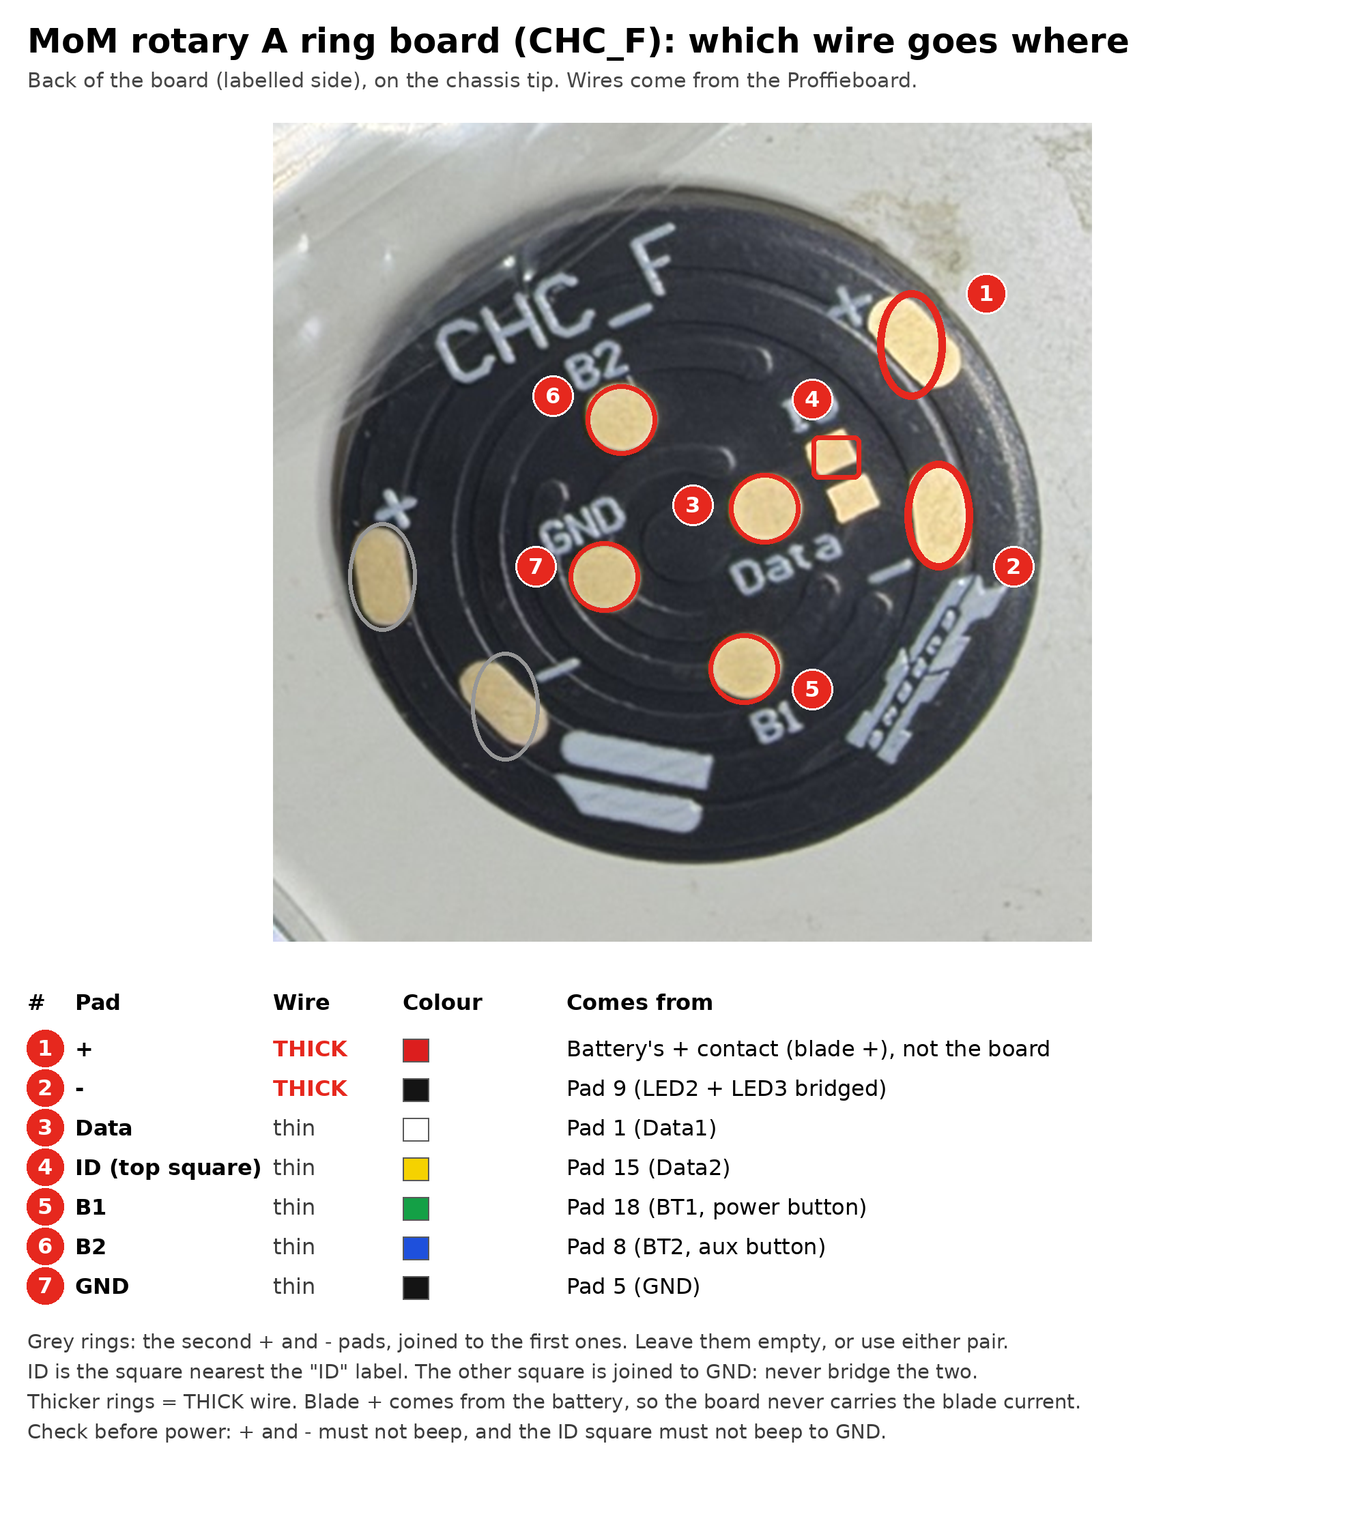
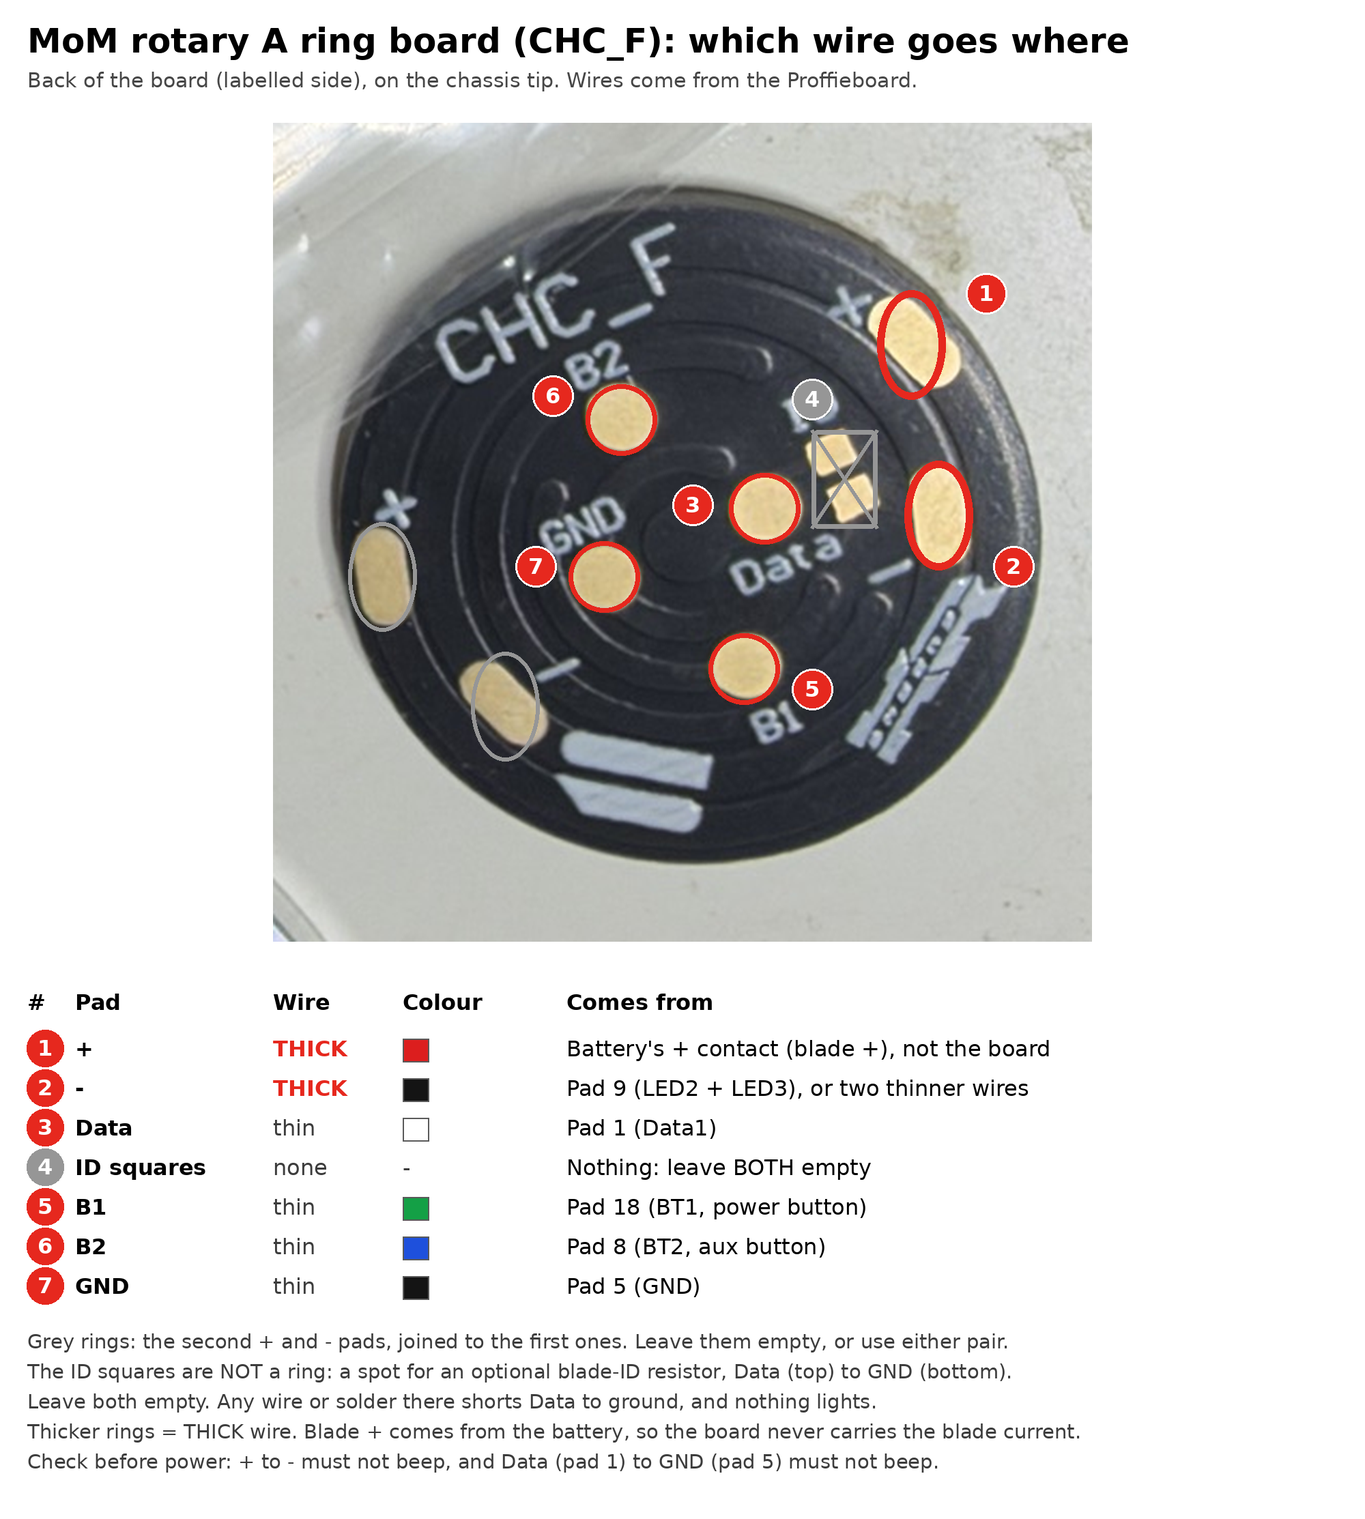
MoM: route all lights on Data1, leave the rotary's ID squares empty
Shtok's rotary set has six rings (+, -, Data, GND, B1, B2). The ID
squares are a spot for a blade-ID resistor between Data and GND, not a
seventh contact, so routing Data2 through ID joined Data1 and Data2.
Charts, hilt diagram and README now join NPXL #2's D1/D2 and the crystal
strip's DIN onto the one Data wire and mark Data2 (pad 15) unused.

Claude-Session: https://claude.ai/code/session_01265pwD5zDbVVSh7CxSi4nL

diff --git a/saber-wiring/README.md b/saber-wiring/README.md
@@ -17,10 +17,10 @@ The configurator doesn't know about the Shtok rotary connector or the MoM helper
 | 18650 3120 mAh protected cell (1 of the 2) | Battery. Protected cells are a few mm longer than unprotected ones, so check it fits between the spring contacts |
 | Spring battery contacts | Hold the battery; it comes out to charge |
 | 2 A charger | External, shared with the Obi-Wan. There's no charge port in this build |
-| Shtok Rotary NeoPixel & 2 Button PCB connector set (1 set) | Joins the removable chassis to the bottom of the crystal chamber. Carries power, blade data, connector-LED data and both buttons |
+| Shtok Rotary NeoPixel & 2 Button PCB connector set (1 set) | Joins the removable chassis to the bottom of the crystal chamber. Six rings: +, −, Data, GND, B1 and B2 |
 | Shtok NPXL V4 hilt-side connectors (2) + 1" holder | **#1**, in the 1" holder at the blade end, is where the blade plugs in. **#2** sits at the top of the crystal chamber, pins up. Each has 16 LEDs of its own |
 | Round **BLADE** board (Shtok blade-side NPXL board, 5 LEDs) + the designer's copper and black pixel holder | Sits at the bottom of the tip section, flat contacts down onto NPXL #2's pins. Joins the crystal chamber to the tip: +, − and one data line |
-| 330 Ω 0603 resistor (surface-mount chip marked "331", on a paper strip; 0603 is 1.6 × 0.8 mm) | In series on the **crystal strip's** data wire, close to its DIN. Tin both ends, solder the tap from the yellow Data2 wire to one end and the strip's DIN to the other, then cover it with heat shrink |
+| 330 Ω 0603 resistor (surface-mount chip marked "331", on a paper strip; 0603 is 1.6 × 0.8 mm) | In series on the **crystal strip's** data wire, close to its DIN. Tin both ends, solder the tap from the white Data wire to one end and the strip's DIN to the other, then cover it with heat shrink |
 | WS2812 mini strip, 10 LEDs | Crystal chamber light. Use all 10, or cut it to fit and set the count in the config |
 | 4-pin SMT spring-loaded connector | In the chassis end, beside the rotary ring board. The designer's spec: SMT, 2.5 × 10–11 mm, uncompressed pins no taller than 4 mm. Carries the kill-switch return and the two control-box lights (see "MoM FX helper board") |
 | Saberbay 1" thin-walled 36" neopixel blade | Main blade, 130 LEDs (Saberbay's formula: 36 ÷ 40 × 144 ≈ 130) |
@@ -67,7 +67,7 @@ Not from this order:
 - [Ronin Sabers: 7even Chambers MoM Gen 2 Neopixel Install](https://www.youtube.com/watch?v=9AR8ZAMefGs)
 - [BRrogers: FX reveal board assembly](https://www.therpf.com/forums/threads/fx-reveal-board-assembly-for-fx-mom-cave-hero.339167) (helper board and reveal board, RPF)
 
-Layout, from the designer's photos, starting at the pommel: pommel → body with the control box (the removable core with board, battery and speaker goes in here) → crystal chamber → black grip → copper section → emitter with the NPXL connector. The crystal chamber is in the grenade section. The blade goes in past the thin neck to a brass cup about 1" across. The Shtok 1" holder is the same size and replaces that cup; it holds the NPXL, pins up, where the blade's end lands. (On its own, the 17.5 mm NPXL rattles around in the brass cup.) The blade wires (+, −, Data1, Data2) run up from the rotary connector past the crystal chamber to the NPXL. The NPXL's 16 LEDs light the blade plug at that end. The crystal is lit by the mini strip.
+Layout, from the designer's photos, starting at the pommel: pommel → body with the control box (the removable core with board, battery and speaker goes in here) → crystal chamber → black grip → copper section → emitter with the NPXL connector. The crystal chamber is in the grenade section. The blade goes in past the thin neck to a brass cup about 1" across. The Shtok 1" holder is the same size and replaces that cup; it holds the NPXL, pins up, where the blade's end lands. (On its own, the 17.5 mm NPXL rattles around in the brass cup.) The blade wires (+, −, Data1) run up from the rotary connector past the crystal chamber to the NPXL. The NPXL's 16 LEDs light the blade plug at that end. The crystal is lit by the mini strip.
 
 The chassis comes all the way out, so every wire from the Proffieboard ends at the chassis end: on the rotary ring board, the 4-pin connector, the battery contacts or the speaker. The rotary connector is the pass-through that carries the blade's wires on into the hilt.
 
@@ -103,9 +103,9 @@ Use **thick** wire only where the blade's current flows: the battery in and out,
 | **BATT−** | **Thick** | Battery − | Every LED's current comes back through here |
 | **LED2 + LED3** | **Thick** | Blade −: rotary **−** → NPXL **−** | The two pads are next to each other. Strip enough wire to lay across both and solder them together |
 | **GND** | Thin | Shared leg of both buttons: rotary **GND** → helper **GND** | GND and BATT− are joined on the board, so any GND or BATT− pad works |
-| **Data1** | Thin | Rotary **Data** → NPXL **D1** (blade) | Data1 has a 470 Ω resistor built in, so no extra resistor |
-| **Data2** | Thin | Rotary **ID** → NPXL **D2** (connector's 16 LEDs) | The NPXL has its own 330 Ω (R2) on D2 |
-| **Data3** | None | Spare, not used | If you already soldered a wire here, tape its end. The crystal strip takes its data from Data2 in the crystal chamber |
+| **Data1** | Thin | Rotary **Data** → every light: NPXL #2 **D1** and **D2**, the crystal strip, and on up to NPXL #1 and the blade | Data1 has a 470 Ω resistor built in, so no extra resistor |
+| **Data2** | None | Not used: the rotary has no ring for it | If you already soldered a wire here, tape its end |
+| **Data3** | None | Spare, not used | If you already soldered a wire here, tape its end. The crystal strip takes its data from the Data wire in the crystal chamber |
 | **LED1** | None | Spare, not used | If you already soldered a wire here, tape its end and tuck it away. The crystal's − now comes from the blade − line in the hilt |
 | **BT1** | Thin | Rotary **B1** → helper **SW1+** (power) | |
 | **BT2** | Thin | Rotary **B2** → helper **SW2+** (aux) | |
@@ -125,7 +125,7 @@ Colour plan for black, red, white, green, yellow and blue. Each group of wires t
 
 | Ends at | Wires (Proffieboard pad → colour) |
 | --- | --- |
-| Rotary connector (chassis side) | blade + **red thick** (from the battery + contact), LED2+LED3 **black thick**, GND (pad 5) black thin, Data1 white, Data2 yellow, BT1 green, BT2 blue |
+| Rotary connector (chassis side) | blade + **red thick** (from the battery + contact), LED2+LED3 **black thick**, GND (pad 5) black thin, Data1 white, BT1 green, BT2 blue |
 | 4-pin connector (chassis end) | BATT+ red thick (pins 1 and 2), LED5 green (pin 3), LED6 yellow (pin 4) |
 | Battery contacts | + : blade + **red thick**. − : BATT− **black thick** |
 | Speaker | SPKR+ and SPKR− both green. Polarity doesn't matter with one speaker |
@@ -165,7 +165,7 @@ Where each pad is on the back (the side printed **HILT**), from the manual's pag
 | NPXL pad | Where it is | Wire to |
 | --- | --- | --- |
 | **D1** | The big round pad dead centre, with "D1" printed below it | Data1 (blade): white |
-| **D2** | The small round pad on the left edge, printed "D2", between R2 above and R1 below | Data2 (the 16 on-board LEDs): yellow |
+| **D2** | The small round pad on the left edge, printed "D2", between R2 above and R1 below | The 16 on-board LEDs: yellow, joined to the Data wire (the rotary has only one data ring) |
 | **−** | The gold pads around the centre, with "−" printed either side of "HILT" | LED2 + LED3: thick black |
 | **+** | The outer pads: the big square ones at top and bottom and the round outer ones printed "+" | Battery +: thick red |
 | **BD** | The inner pad at lower right, printed "BD" | Not used. Blade detect is off (see below). Keep solder from bridging it to the − pads |
@@ -178,6 +178,8 @@ The MoM has two of these. **NPXL #2**, at the top of the crystal chamber, is wir
 This is the manual's **Option 4**: blade and connector LEDs on separate data wires, which is also what the configurator draws. **Option 4 needs resistor R1 removed.** R1 is the tiny resistor next to D2, labeled R1 in the diagram. If R1 is still fitted, D1 and D2 are tied together through it, and two data outputs end up fighting each other. Leave R2 in place.
 
 The manual's own Proffieboard example for Option 4 matches this config: blade on Data1 and the connector's 16 LEDs on Data2, both on `PowerPINS<bladePowerPin2, bladePowerPin3>`, with `SHARED_POWER_PINS`. The only difference is that this config splits the 16 LEDs into two interleaved halves, as the configurator does. Both work.
+
+In the MoM, NPXL #2's D1 and D2 now both join the rotary's single Data wire (see the rotary section below), so its ring copies NPXL #1's ring. With both on one wire, having R1 off does no harm.
 
 ## Shtok rotary connector (Rotary NeoPixel & 2 Button set)
 
@@ -192,14 +194,14 @@ Ring board A (CHC_F), pad by pad, on a photo of the real board:
 | **+** | Battery + contact (thick) | NPXL + |
 | **−** | LED2 + LED3 | NPXL − |
 | **Data** | Data1 | NPXL D1 |
-| **ID** | Data2 | NPXL D2 (repurposed; see below) |
+| **ID squares** | Nothing | Nothing (see below) |
 | **B1** | BT1 | Helper **SW1+** (power button) |
 | **B2** | BT2 | Helper **SW2+** (aux button) |
 | **GND** | GND (pad 5) | Helper **GND** (shared leg of both buttons) |
 
-On both boards, **ID** is the upper of the two small square pads next to the "ID" label. The lower square is joined to GND (it's for an optional ID resistor), so never let solder bridge the two: that would short Data2 to ground.
+The set has **six rings**: +, −, Data, GND, B1 and B2. Shtok's diagram wires exactly those six. The two small squares by the "ID" label are **not** a seventh contact: they're a spot for an optional blade-ID resistor, with the top square on Data and the bottom one on GND. Leave both empty on both boards. A wire on the top square lands on Data, and solder bridging the two shorts Data to ground, so nothing lights. (An earlier version of this guide routed Data2 through ID, which joined Data1 and Data2. That's corrected here.)
 
-This set has one data contact plus an **ID** contact. The blade and the connector LEDs need two data wires, so this wiring carries the connector-LED data (D2) on ID. That leaves no contact for the NPXL's blade-detect (BD) pin, which is why Blade Detect is off.
+With one data ring, all the lights run on Data1. In the chamber, NPXL #2's D1 and D2 and the crystal strip's DIN all join the same wire, so the chamber lights copy NPXL #1's ring (the first 16 pixels). There's no contact for the NPXL's blade-detect (BD) pin, which is why Blade Detect is off. To give the chamber its own pattern later, the 4-pin's pin 2 could carry Data2 instead of doubling board power; the designer lists pin 2 as a second BATT+ or a data line.
 
 In the MoM the buttons do use B1, B2 and GND, because the 4-pin pogo is taken up by the kill switch and the control-box lights. On the hilt side, three short wires run from the pin board (CHC_M) to the helper board.
 
@@ -232,7 +234,7 @@ For the MoM, the chassis designer's notes give the 4-pin connector's pinout (for
 | 4 | LEDy arrow neg- | LED6 (pad 11), yellow |
 
 - **4-pin connector:** a single spring-loaded SMT strip in the chassis end. Its pins press on contacts in the hilt, so there's no second half to make. The designer says that if your pins are shorter than the chassis expects, a dab of hot glue or tape inside the pommel cap corner keeps them in contact. Check in the designer's video or photos which end is pin 1 before soldering.
-- **Rotary connector:** blade +, blade −, Data1, Data2 (on ID), and the buttons on B1, B2 and GND.
+- **Rotary connector:** blade +, blade −, Data1, and the buttons on B1, B2 and GND. Nothing on the ID squares.
 
 If the green and red arrow lights come out swapped, swap `bladePowerPin5` and `bladePowerPin6` in the config.
 
@@ -251,10 +253,10 @@ The config already drives LED1 and LED2 as two plain LEDs on LED5 and LED6 (blad
 
 None of the install videos show this wiring, so it's worked out from the parts' pinouts and the chassis designer's notes. The hilt side has three groups of wires:
 
-- **Up through the crystal chamber: 4 wires.** Blade + and − (thick), Data and ID (thin), from rotary **A**'s pin board at the bottom of the chamber to **NPXL #2** at its top, pins up. Its own 16 LEDs take ID (Data2).
+- **Up through the crystal chamber: 3 runs.** Blade + and − (thick) and Data (thin), from rotary **A**'s pin board at the bottom of the chamber to **NPXL #2** at its top, pins up. NPXL #2's D1 and D2 both join the Data wire, so its own 16 LEDs copy NPXL #1's ring.
 - **The chamber-to-tip joint:** NPXL #2's pins press on the **BLADE** board, held in the designer's copper and black pixel holder at the bottom of the tip section. Only +, − and one data line (the centre pin) cross it.
 - **Tip section: 3 wires.** From the BLADE board up to **NPXL #1** at the blade end. NPXL #1 is chained (Option 3): data into D2, J bridged, so its 16 LEDs come first and the blade follows.
-- **At the crystal chamber: 3 wires to the strip.** + and − tapped off the blade + and − wires as they pass, and data tapped off the yellow Data2 wire through the 330 Ω. The strip shows the same pattern as NPXL #2's ring. No wire crosses from the chassis.
+- **At the crystal chamber: 3 wires to the strip.** + and − tapped off the blade + and − wires as they pass, and data tapped off the white Data wire through the 330 Ω. The strip shows the same pattern as NPXL #2's ring. No wire crosses from the chassis.
 - **At the helper board in the control box:** the buttons (B1, B2 and GND from the rotary pin board), battery + for the kill switch (a tap off blade +) and the 4-pin contacts.
 
 ![Hilt-side wiring](out/mom/hilt-wiring.png)
@@ -267,8 +269,8 @@ Rotary A's pin board (CHC_M), pad by pad, on the photo of the real board:
 | --- | --- | --- | --- |
 | Rotary A pin board **+** | NPXL #2 **+** | Thick | Red |
 | Rotary A pin board **−** | NPXL #2 **−** | Thick | Black |
-| Rotary A pin board **Data** | NPXL #2 **D1** | Thin | White |
-| Rotary A pin board **ID** | NPXL #2 **D2** | Thin | Yellow |
+| Rotary A pin board **Data** | NPXL #2 **D1** and **D2** (join them) | Thin | White, and yellow for D2 |
+| Rotary A pin board **ID squares** | Nothing | | |
 | BLADE board **+** (the four outer pads marked +) | NPXL #1 **+** | Thick | Red |
 | BLADE board **−** (the pads marked −) | NPXL #1 **−** | Thick | Black |
 | BLADE board **D** (top centre, above its resistor) | NPXL #1 **D2** | Thin | White (it carries Data1, the blade's data) |
@@ -278,7 +280,7 @@ Rotary A's pin board (CHC_M), pad by pad, on the photo of the real board:
 | Tap on blade + | Helper **BATT+** (kill switch in) | Thin will do; thick if it fits | Red |
 | Tap on blade + | Crystal **+ / 5V** | Thin | Red |
 | Tap on blade − | Crystal **− / GND** | Thin | Black |
-| Tap on the yellow Data2 wire | **330 Ω** → crystal **DIN** | Thin | Yellow |
+| Tap on the white Data wire | **330 Ω** → crystal **DIN** | Thin | White |
 | 4-pin **pin 1** and **pin 2** contacts | Helper **BRD+** (kill switch out) | Thin will do; thick if it fits | Red |
 | 4-pin **pin 3** contact | Helper **LED1−** | Thin | Green |
 | 4-pin **pin 4** contact | Helper **LED2−** | Thin | Yellow |
@@ -290,17 +292,17 @@ Each wire has the same colour as the chassis-side wire behind its contact, so a 
 3. **Blade wires, in two runs.**
    - **Chamber-to-tip joint:** press the BLADE board into the pixel holder, flat contact face down (toward the chamber), the side printed "BLADE" up. Fit the holder at the bottom of the tip section. Dry-fit the tip onto the chamber with NPXL #2 in place: its pins should compress partway and the centre pin should land on the BLADE board's centre pad.
    - **Tip section:** BLADE board → NPXL #1. + → +, − → −, D → D2. Work out of the tip section's open bottom with it unscrewed, and leave only a couple of cm of slack.
-   - **Crystal chamber:** rotary A's pin board → NPXL #2. + → +, − → −, Data → D1, ID → D2. Before soldering the thick ones, slide on heat shrink for the taps: two pieces on the red (crystal + and kill switch), one on the black (crystal −).
+   - **Crystal chamber:** rotary A's pin board → NPXL #2. + → +, − → −, Data → D1 and D2 (join the two). Nothing on the ID squares. Before soldering the thick ones, slide on heat shrink for the taps: two pieces on the red (crystal + and kill switch), one on the black (crystal −).
 4. **Buttons.** Rotary A pin board B1 → SW1+, B2 → SW2+, GND → GND. Short thin wires.
 5. **Taps.** Where a tap goes, score round the thick wire's insulation twice about 5 mm apart, slit between the cuts and peel that piece off. Wrap the thin wire's tinned end once round the bare strands, solder, then slide the heat shrink over and shrink it.
    - Blade + → crystal + (thin red) and blade − → crystal − (thin black), where the wires pass the crystal chamber.
    - Blade + → helper BATT+ (red), near the control box. If rotary A's + pad has room, you can instead lay this wire alongside the thick one on that pad.
    - The crystal's − goes on the blade − wire, not the helper's GND. The board switches blade − off with the blade, so the crystal goes fully dark. On GND, its LEDs would draw a few mA all the time, even with the kill switch off.
-6. **Crystal data.** Tap the yellow Data2 wire (rotary A's ID → NPXL #2's D2) inside the chamber, the same way as the + and − taps. Run that tap to the strip, stop about 1 cm short of DIN, solder the 330 Ω in line there, add a short stub to DIN and heat-shrink over the resistor. Use the strip's DIN end, where the arrows point away from the wire.
+6. **Crystal data.** Tap the white Data wire (rotary A's Data → NPXL #2) inside the chamber, the same way as the + and − taps. Run that tap to the strip, stop about 1 cm short of DIN, solder the 330 Ω in line there, add a short stub to DIN and heat-shrink over the resistor. Use the strip's DIN end, where the arrows point away from the wire.
 7. **4-pin contacts to the helper**, unless step 1 showed they're already joined: pins 1 and 2 → BRD+, pin 3 → LED1−, pin 4 → LED2−.
 8. **Multimeter checks, battery out.**
    - Should beep, with the chamber and tip screwed together: rotary A pin board + ↔ NPXL #1 +, − ↔ NPXL #1 −. Rotary A Data ↔ NPXL #2 D1. Crystal + ↔ blade +, crystal − ↔ blade −.
-   - Must not beep: NPXL #1 D1 to anything (it stays empty), and rotary A Data ↔ rotary A ID.
+   - Must not beep: NPXL #1 D1 to anything (it stays empty), and rotary A Data ↔ rotary A GND (that would mean the ID squares are bridged).
    - Must not beep: blade + ↔ blade −, and helper BATT+ ↔ helper GND.
    - Kill switch off: helper BATT+ ↔ BRD+ silent. On: it beeps.
 9. **First power-up.** Kill switch off, battery in, chassis in, then switch on: you should hear the boot sound. Ignite. The blade, both NPXLs' LEDs, the crystal and both arrow lights should come on.
@@ -325,7 +327,7 @@ Each wire has the same colour as the chassis-side wire behind its contact, so a 
 | --- | --- | --- |
 | 1 | Main blade, 130 pixels, after the ring on the same strip | Data1, LED2 + LED3 |
 | 2 | NPXL #1's ring at the blade end: the first `RING_LEDS` pixels on Data1 (16, or 21 if the BLADE board's 5 LEDs are in the chain) | Data1, LED2 + LED3 |
-| 3 | Crystal chamber lights: NPXL #2's 16-pixel ring at the top of the chamber, and the 10-pixel crystal strip tapped onto the same data wire (it copies the ring's first 10) | Data2, LED2 + LED3 |
+| 3 | Crystal chamber lights: NPXL #2's 16-pixel ring at the top of the chamber, and the 10-pixel crystal strip tapped onto the same data wire (it copies the ring's first 10). Now wired to Data1 instead (the rotary has one data ring), so this blade drives nothing and the chamber copies NPXL #1's ring | Data2, LED2 + LED3 |
 | 4 | Control box green light | LED5 |
 | 5 | Control box red light | LED6 |
 
@@ -353,7 +355,7 @@ Before flashing:
    - Briefly touch the BT1 (green) wire to a GND (black) wire. That's a power-button press, so you should hear ignition.
 5. **Bench test on the battery:**
    - Board power comes back through the kill switch in the hilt, so until the hilt is wired, temporarily connect the red BATT+ wire (pad 4) to the battery's + contact. That stands in for the switch.
-   - Test the real NPXL and blade. Remove R1 from the NPXL first. Then clip or tack the NPXL's **+** to the battery's +, **−** to pad 9's thick black wire, **D1** to Data1 (white) and **D2** to Data2 (yellow), and plug the blade in.
+   - Test the real NPXL and blade. Remove R1 from the NPXL first. Then clip or tack the NPXL's **+** to the battery's +, **−** to pad 9's thick black wire, **D1** and **D2** both to Data1 (white), and plug the blade in.
    - No NPXL handy? Use 6–8 leftover mini-strip LEDs as a test blade: + to battery +, − to pad 9's thick wire, DIN to Data1.
    - Always connect the battery the right way round. Neopixels can fry if it's reversed.
 6. **Then the connectors and far ends:**
